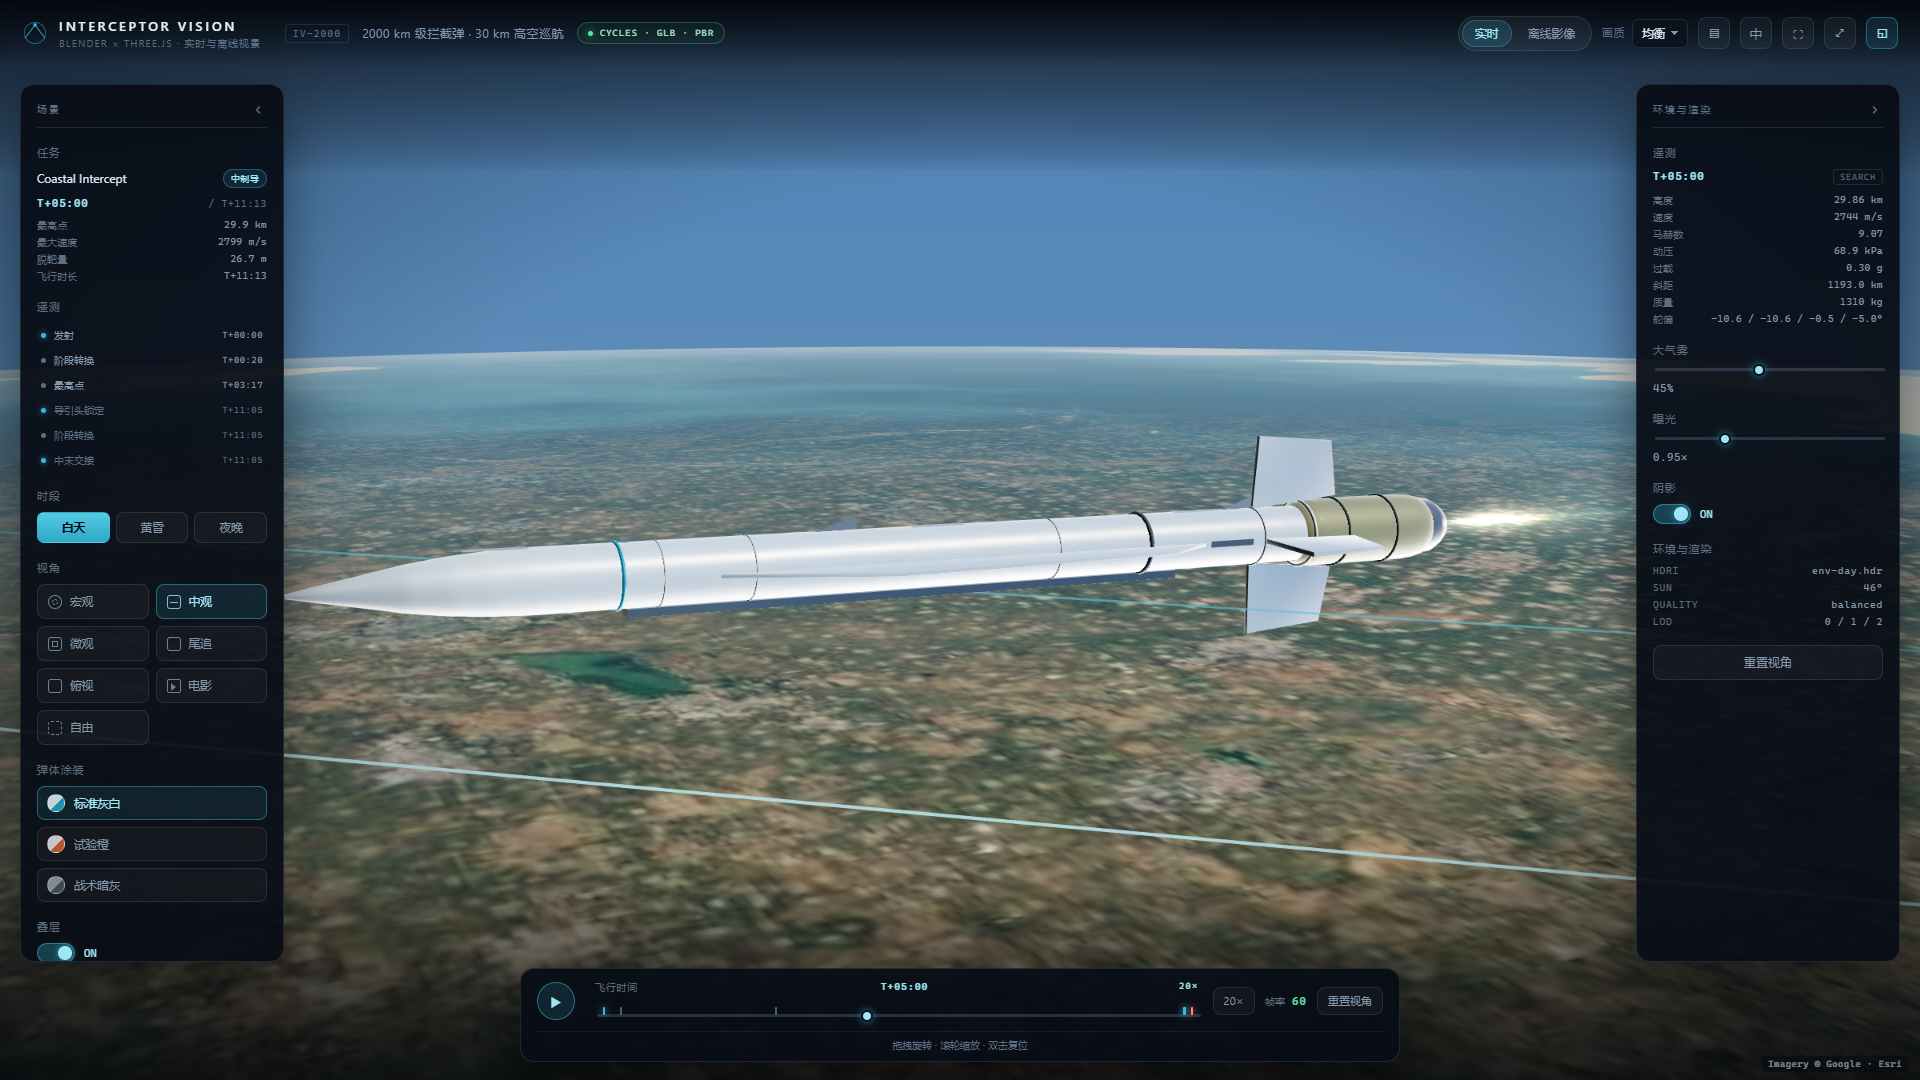
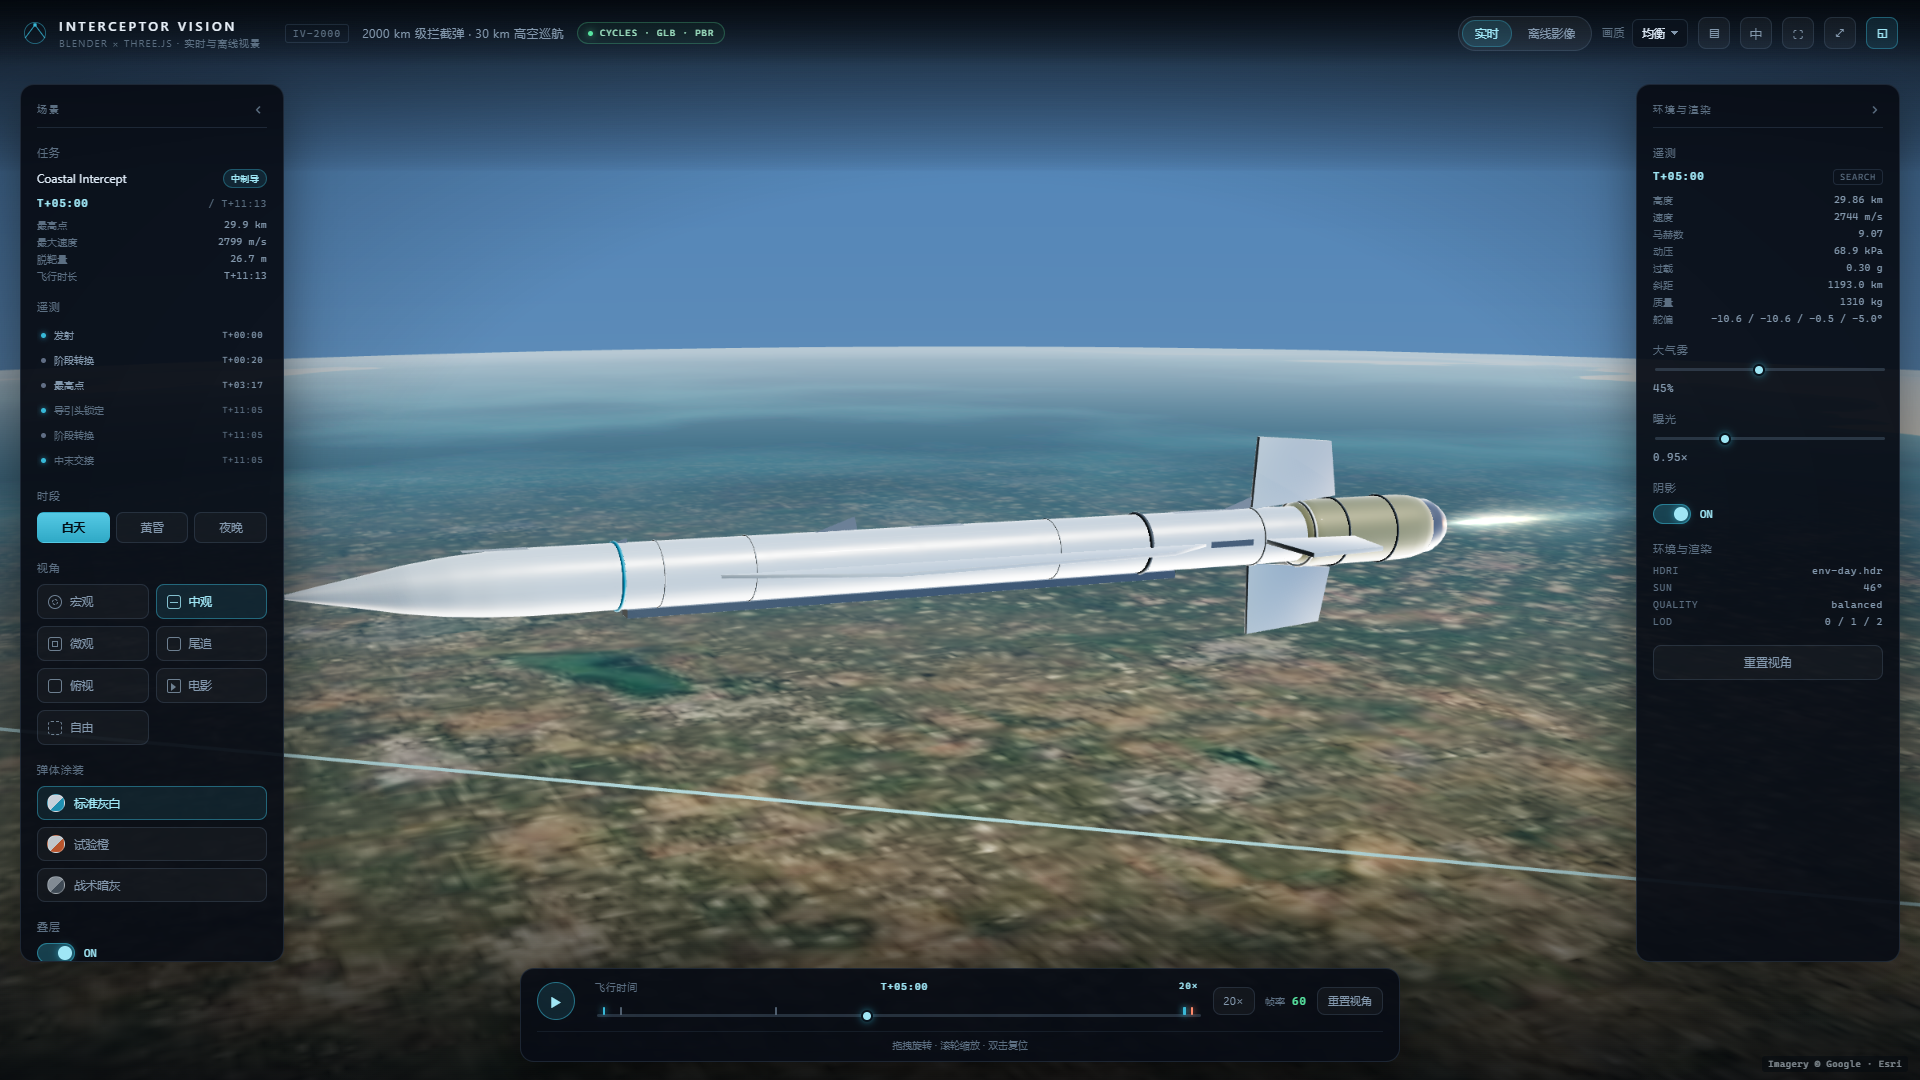
Fix ground jitter and shimmer, cap cinematic DPR

diff --git a/interceptor-vision/src/scene/MapTiles.ts b/interceptor-vision/src/scene/MapTiles.ts
@@ -48,7 +48,9 @@ export class MapTileTexture {
   private blockY = Number.NaN;
   private provider: Provider = "google";
   private images = new Map<string, HTMLImageElement>();
+  private loading = new Set<string>();
   private failed = new Set<string>();
+  private pending: { x0: number; y0: number; started: number } | null = null;
   private drawn = 0;
   private dirty = false;
   private disposed = false;
@@ -64,12 +66,15 @@ export class MapTileTexture {
     this.texture = new THREE.CanvasTexture(this.canvas);
     this.texture.colorSpace = THREE.SRGBColorSpace;
     this.texture.wrapS = this.texture.wrapT = THREE.ClampToEdgeWrapping;
-    // Uploading a 2048² canvas costs a full copy; building mipmaps on top of
-    // that every time a tile lands is what made playback hitch.
-    this.texture.generateMipmaps = false;
-    this.texture.minFilter = THREE.LinearFilter;
+    // Mipmaps are needed: without them the satellite ground shimmers badly at
+    // grazing angles. Uploads are batched by flush(), so the rebuild cost is
+    // paid once per window instead of once per tile.
+    this.texture.generateMipmaps = true;
+    this.texture.minFilter = THREE.LinearMipmapLinearFilter;
     this.texture.magFilter = THREE.LinearFilter;
-    this.texture.anisotropy = 1;
+    // Grazing views of a 626 km tile block need anisotropic filtering, otherwise
+    // the ground smears into horizontal streaks that shimmer while scrolling.
+    this.texture.anisotropy = 8;
   }
 
   /** Copies pending canvas changes to the GPU at most once per call. */
@@ -94,10 +99,27 @@ export class MapTileTexture {
     const bx = Math.floor(px) - half;
     const by = Math.floor(py) - half;
 
-    if (!Number.isFinite(this.blockX) || Math.abs(bx - this.blockX) > 2 || Math.abs(by - this.blockY) > 2) {
+    if (!Number.isFinite(this.blockX)) {
       this.blockX = bx;
       this.blockY = by;
       this.redraw();
+    } else if (!this.pending && (Math.abs(bx - this.blockX) > 2 || Math.abs(by - this.blockY) > 2)) {
+      // Prefetch the next block before switching, so a block change never
+      // flashes mismatched or blank tiles over the ground.
+      this.pending = { x0: bx, y0: by, started: performance.now() };
+      this.prefetch(this.pending);
+    }
+
+    if (this.pending) {
+      const total = this.grid * this.grid;
+      const ready = this.countReady(this.pending);
+      const elapsed = performance.now() - this.pending.started;
+      if (ready >= total * 0.85 || elapsed > 900) {
+        this.blockX = this.pending.x0;
+        this.blockY = this.pending.y0;
+        this.pending = null;
+        this.redraw();
+      }
     }
 
     return {
@@ -110,48 +132,70 @@ export class MapTileTexture {
     };
   }
 
+  private countReady(block: { x0: number; y0: number }) {
+    let n = 0;
+    for (let gy = 0; gy < this.grid; gy++) {
+      for (let gx = 0; gx < this.grid; gx++) {
+        if (this.images.has(`${this.zoom}/${block.x0 + gx}/${block.y0 + gy}`)) n++;
+      }
+    }
+    return n;
+  }
+
+  private prefetch(block: { x0: number; y0: number }) {
+    for (let gy = 0; gy < this.grid; gy++) {
+      for (let gx = 0; gx < this.grid; gx++) {
+        this.loadTile(block.x0 + gx, block.y0 + gy);
+      }
+    }
+  }
+
   private redraw() {
     const cell = this.size / this.grid;
     for (let gy = 0; gy < this.grid; gy++) {
       for (let gx = 0; gx < this.grid; gx++) {
         const tx = this.blockX + gx;
         const ty = this.blockY + gy;
-        const key = `${this.zoom}/${tx}/${ty}`;
-        const img = this.images.get(key);
+        const img = this.images.get(`${this.zoom}/${tx}/${ty}`);
         if (img) {
           this.ctx.drawImage(img, gx * cell, gy * cell, cell, cell);
-          continue;
+        } else {
+          this.loadTile(tx, ty);
         }
-        // Leave the previous block's pixels in place until the new tile lands;
-        // the shader fades the map out well before the canvas edge.
-        this.loadTile(key, tx, ty, gx, gy, cell);
       }
     }
     this.drawn += 1;
     this.dirty = true;
   }
 
-  private loadTile(key: string, tx: number, ty: number, gx: number, gy: number, cell: number) {
+  private loadTile(tx: number, ty: number) {
+    const key = `${this.zoom}/${tx}/${ty}`;
+    if (this.images.has(key) || this.loading.has(key) || this.failed.has(`${key}:${this.provider}`)) return;
     const wrappedX = ((tx % 2 ** this.zoom) + 2 ** this.zoom) % 2 ** this.zoom;
-    const hinted = `${key}:${this.provider}`;
-    if (this.failed.has(hinted)) return;
     const url = tileUrl(this.provider, this.zoom, wrappedX, ty);
+    this.loading.add(key);
     const img = new Image();
     img.crossOrigin = "anonymous";
     img.decoding = "async";
     img.onload = () => {
+      this.loading.delete(key);
       if (this.disposed) return;
       this.images.set(key, img);
-      this.ctx.drawImage(img, gx * cell, gy * cell, cell, cell);
-      this.drawn += 1;
-      this.dirty = true;
+      const gx = tx - this.blockX;
+      const gy = ty - this.blockY;
+      if (gx >= 0 && gx < this.grid && gy >= 0 && gy < this.grid) {
+        const cell = this.size / this.grid;
+        this.ctx.drawImage(img, gx * cell, gy * cell, cell, cell);
+        this.dirty = true;
+      }
     };
     img.onerror = () => {
+      this.loading.delete(key);
       if (this.disposed) return;
-      this.failed.add(hinted);
+      this.failed.add(`${key}:${this.provider}`);
       if (this.provider === "google") {
         this.provider = "esri";
-        this.loadTile(key, tx, ty, gx, gy, cell);
+        this.loadTile(tx, ty);
       }
     };
     img.src = url;

diff --git a/interceptor-vision/src/scene/Environment.tsx b/interceptor-vision/src/scene/Environment.tsx
@@ -254,7 +254,10 @@ const EARTH_FRAG = /* glsl */ `
     vec2 uvNear = vWorld.xz / uSpan + uOrigin;
     vec3 baseNear = texture2D(uMap, uvNear).rgb;
     float r = length(vWorld.xz);
-    float blend = (1.0 - smoothstep(120000.0, 320000.0, r)) * uHasMap;
+    // Keep the satellite layer inside the tile block (span 626 km => +-313 km).
+    // Sampling past the block edge clamps to the border texels and smears into
+    // flickering streaks, so hand over to the procedural layer well inside it.
+    float blend = (1.0 - smoothstep(80000.0, 235000.0, r)) * uHasMap;
     vec3 base = mix(baseFar, baseNear, blend);
 
     float dl = max(dot(N, L), 0.0);
@@ -265,7 +268,9 @@ const EARTH_FRAG = /* glsl */ `
     col += vec3(0.33, 0.58, 0.86) * fres * 0.28 * (1.0 - uNight * 0.85);
 
     float dist = length(vWorld - cameraPosition);
-    col = mix(col, uFog, smoothstep(180000.0, 900000.0, dist));
+    // The planar far layer stretches badly near the horizon; haze it out before
+    // the stretch becomes visible so the horizon reads as a clean gradient.
+    col = mix(col, uFog, smoothstep(180000.0, 600000.0, dist));
     gl_FragColor = vec4(col, 1.0);
     #include <tonemapping_fragment>
     #include <colorspace_fragment>
@@ -321,24 +326,24 @@ function Terrain() {
     );
   }, [uniforms, preset, timeOfDay]);
 
-  // Re-centre the satellite tiles at 2 Hz and upload at most every 200 ms, so
-  // a burst of arriving tiles cannot stall the frame.
+  // The scroll offset follows the clock every frame (a 0.5 s step made the
+  // ground visibly jump), while tile uploads stay batched to one per 200 ms.
   useFrame((_, delta) => {
-    acc.current += delta;
-    if (acc.current >= 0.5) {
-      acc.current = 0;
-      const tel = getTelemetry();
-      const sample = tel ? sampleAt(dataClock.t) : null;
-      const frame = map.update(sample?.latDeg ?? 34, sample?.lonDeg ?? 118);
-      const u = mat.current?.uniforms;
-      if (u) {
-        u.uOrigin.value.set(frame.originU, frame.originV);
-        u.uFarOffset.value.set(frame.farU, frame.farV);
-        u.uSpan.value = frame.spanMeters;
-        u.uHasMap.value = frame.ready ? 1 : 0;
-      }
+    const tel = getTelemetry();
+    const sample = tel ? sampleAt(dataClock.t) : null;
+    const frame = map.update(sample?.latDeg ?? 34, sample?.lonDeg ?? 118);
+    const u = mat.current?.uniforms;
+    if (u) {
+      u.uOrigin.value.set(frame.originU, frame.originV);
+      u.uFarOffset.value.set(frame.farU, frame.farV);
+      u.uSpan.value = frame.spanMeters;
+      u.uHasMap.value = frame.ready ? 1 : 0;
     }
-    map.flush();
+    acc.current += delta;
+    if (acc.current >= 0.2) {
+      acc.current = 0;
+      map.flush();
+    }
   });
 
   const geometry = useMemo(() => new THREE.SphereGeometry(1, segments * 2, segments), [segments]);

diff --git a/interceptor-vision/src/scene/AdaptiveResolution.tsx b/interceptor-vision/src/scene/AdaptiveResolution.tsx
@@ -8,10 +8,12 @@ import { useFrame, useThree } from "@react-three/fiber";
  */
 export function AdaptiveResolution({ max }: { max: number }) {
   const setDpr = useThree((s) => s.setDpr);
-  const acc = useRef({ t: 0, frames: 0, dpr: max });
+  const acc = useRef({ t: 0, frames: 0, dpr: max, low: 0, locked: false });
 
   useEffect(() => {
     acc.current.dpr = max;
+    acc.current.low = 0;
+    acc.current.locked = false;
     setDpr(max);
   }, [max, setDpr]);
 
@@ -19,16 +21,23 @@ export function AdaptiveResolution({ max }: { max: number }) {
     const a = acc.current;
     a.t += delta;
     a.frames += 1;
-    if (a.t < 1.2) return;
+    if (a.t < 2) return;
     const fps = a.frames / a.t;
     a.t = 0;
     a.frames = 0;
-    let next = a.dpr;
-    if (fps < 44 && next > 0.7) next = Math.max(0.7, next - 0.15);
-    else if (fps > 57 && next < max) next = Math.min(max, next + 0.05);
-    if (Math.abs(next - a.dpr) < 0.01) return;
-    a.dpr = next;
-    setDpr(Number(next.toFixed(2)));
+    // Only step down, and only after two consecutive bad windows. Recovering
+    // upward caused the resolution (and the whole image) to pulse every second.
+    if (fps < 48) {
+      a.low += 1;
+      if (a.low >= 2 && a.dpr > 0.7 && !a.locked) {
+        a.dpr = Math.max(0.7, a.dpr - 0.15);
+        a.locked = true;
+        a.low = 0;
+        setDpr(Number(a.dpr.toFixed(2)));
+      }
+    } else {
+      a.low = 0;
+    }
   });
   return null;
 }
@@ -37,5 +46,7 @@ export function AdaptiveResolution({ max }: { max: number }) {
 export const DPR_CAP: Record<string, number> = {
   performance: 1,
   balanced: 1.25,
-  cinematic: 1.5,
+  // 1.5 costs ~18 FPS at 1080p on integrated graphics because of the bloom
+  // chain, and the extra sharpness is barely visible next to the cost.
+  cinematic: 1.25,
 };

diff --git a/interceptor-vision/src/scene/TrajectoryOverlay.tsx b/interceptor-vision/src/scene/TrajectoryOverlay.tsx
@@ -177,10 +177,12 @@ export function TrajectoryOverlay() {
         airArr[i * 6 + 4] = scratch[(i + 1) * 3 + 1];
         airArr[i * 6 + 5] = scratch[(i + 1) * 3 + 2];
         groundArr[i * 6] = x;
-        groundArr[i * 6 + 1] = -drop;
+        // Lift the ground track slightly above the sphere to avoid z-fighting
+        // with the terrain, which reads as a flickering dashed line.
+        groundArr[i * 6 + 1] = -drop + 600;
         groundArr[i * 6 + 2] = z;
         groundArr[i * 6 + 3] = scratch[(i + 1) * 3];
-        groundArr[i * 6 + 4] = -((scratch[(i + 1) * 3] ** 2 + scratch[(i + 1) * 3 + 2] ** 2) / (2 * EARTH_R));
+        groundArr[i * 6 + 4] = -((scratch[(i + 1) * 3] ** 2 + scratch[(i + 1) * 3 + 2] ** 2) / (2 * EARTH_R)) + 600;
         groundArr[i * 6 + 5] = scratch[(i + 1) * 3 + 2];
       }
     }

diff --git a/interceptor-vision/docs/QA.md b/interceptor-vision/docs/QA.md
@@ -128,6 +128,19 @@
 - 新增弹道叠层：按遥测经纬度/高度在**当前弹体局部坐标系**中逐帧重建整条航迹，空中轨迹与地面投影均按地球曲率下沉；采用屏幕等宽光带（Line2）避免近处爆粗，36 个流动光点沿弧线滚动，并标注发射/最高点/拦截点。左侧“叠层”可关闭。
 - 实测：20× 与 60× 连续播放 9 s，Long Task 0 次、60 FPS；弹道在 中景/宏观/末段均清晰可见；控制台 0 报错。
 
+## 第 12 轮：抖动与闪烁修复
+
+问题：播放时画面“一抖一抖、一闪一闪”。
+
+逐条定位与修复：
+
+- 抖动（一抖）主因：地表 UV 偏移此前每 0.5 s 才写一次 uniform，地面每半秒跳一格。改为每帧写入 `uOrigin/uFarOffset`，瓦片上传仍每 200 ms 批量 flush。
+- 闪烁（一闪）主因有三：①纹理关闭 mipmap 后远景摩尔纹闪烁 → 恢复 `LinearMipmapLinearFilter`，因已批量上传，重建开销只落在 flush 时刻；②自适应分辨率在 44–57 FPS 间来回升降，整屏分辨率每秒变一次 → 改为“只降不升”，且需连续两个 2 s 窗口低于 48 FPS 才降 0.15 并锁定；③地面投影线与地表几乎共面产生 z-fighting 虚线闪 → 抬高 600 m。
+- 换块闪白：换块前先预取新块，等到 64 张瓦片就绪 ≥85% 或超时 900 ms 才整体切换并重绘，切换过程不再混绘新旧块。
+- 卫星层改为只在瓦片块内（≤235 km）生效，避免采样越过块边界被 clamp 拉伸成条纹；地表各向异性过滤提到 8×，缓解掠射角横向拖影。
+- 实测（Intel UHD，headless，中景 20× 播放 15 s，900 帧）：平均帧 16.9 ms，p50 16.7 / p95 16.8 / p99 33.2 ms，>33 ms 仅 5 帧且无周期性、Long Task 0 次、DPR 恒为 1.25、相机逐帧位移 0；60× 播放 15 s 同为偶发掉 1 帧，地面无空白块/接缝，控制台 0 报错。
+- 另发现 1080p 下 Cinematic 的 DPR 1.5 只有约 38 FPS（Bloom 全屏填充），而 1.25 可到约 54 FPS，故把上限收到 1.25；三档复测 60.2 / 60.3 / 53.8 FPS。
+
 ## 第 10 轮：Google 卫星背景、移除弹道场景
 
 问题：实景背景（程序化地表与云层）几乎不动，看不出飞行速度；不再需要“地球弹道”模式。

diff --git a/interceptor-vision/docs/PERFORMANCE.md b/interceptor-vision/docs/PERFORMANCE.md
@@ -12,9 +12,11 @@
 
 | 画质档 | 中景帧率 | 说明 |
 | --- | --- | --- |
-| Performance | 60.0 FPS | DPR 自适应上限 1.0，关闭阴影，单层云，无后期 |
+| Performance | 60.2 FPS | DPR 自适应上限 1.0，关闭阴影，单层云，无后期 |
 | Balanced | 60.3 FPS | DPR 自适应上限 1.25，1024 阴影，单层云，原生 MSAA，无后期 |
-| Cinematic | 52.2 FPS | DPR 自适应上限 1.5，2048 阴影，一层淡云，暗角 + 弱 Bloom |
+| Cinematic | 53.8 FPS | DPR 自适应上限 1.25，2048 阴影，一层淡云，暗角 + 弱 Bloom |
+
+1080p 下 Cinematic 的 1.5 倍像素比会把集显压到约 38 FPS（Bloom 链 + 全屏填充），而肉眼收益有限，因此上限收到 1.25；需要时自适应分辨率还会继续降到 0.7。
 
 优化前同一台机器：Balanced 54.3 FPS、Cinematic 40.2 FPS。本次优化后中景档两档都跑满或接近 60 FPS。
 

diff --git a/interceptor-vision/README.md b/interceptor-vision/README.md
@@ -120,7 +120,7 @@ interceptor-vision/
 | 延迟加载 | LOD1 0.43 MB、LOD2 0.21 MB 在首帧后预热 |
 | 遥测数据 | `scenario.json` 1.0 MB（gzip 后约 0.2 MB），首帧后 0.9 s 后台加载，不阻塞画面 |
 | 卫星影像 | 按当前经纬度流式请求：8×8 张 z9 瓦片约 0.3–0.6 MB，按需缓存，Google 失败时自动切换 Esri |
-| 帧率（Intel UHD） | Performance 60.0 / Balanced 60.3 / Cinematic 52.2 FPS；20×/60× 连续播放无 >50 ms 长任务 |
+| 帧率（Intel UHD，1920×1080） | Performance 60.2 / Balanced 60.3 / Cinematic 53.8 FPS；20×/60× 连续播放无 >50 ms 长任务 |
 | 控制台错误 | 0 |
 
 详见 [docs/PERFORMANCE.md](docs/PERFORMANCE.md)。
